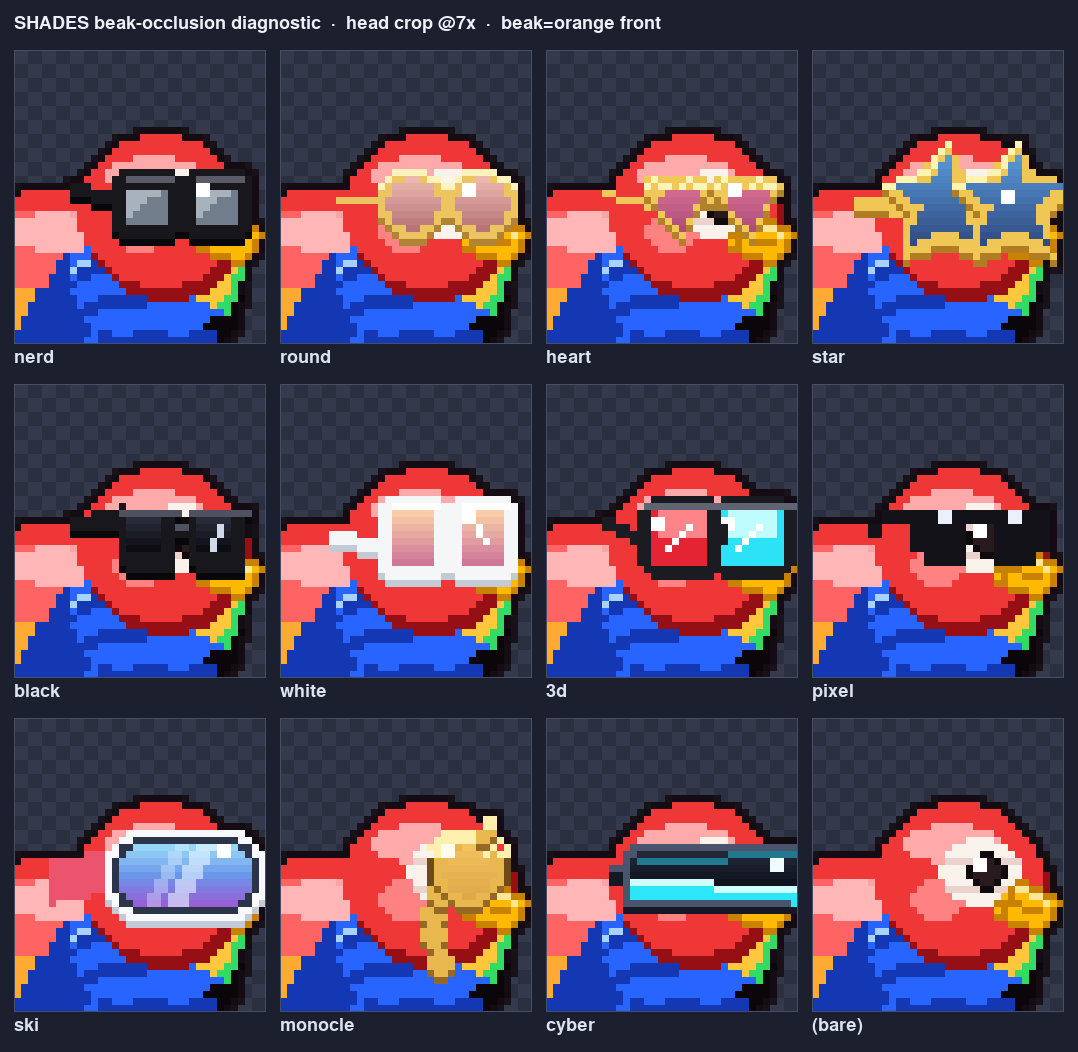
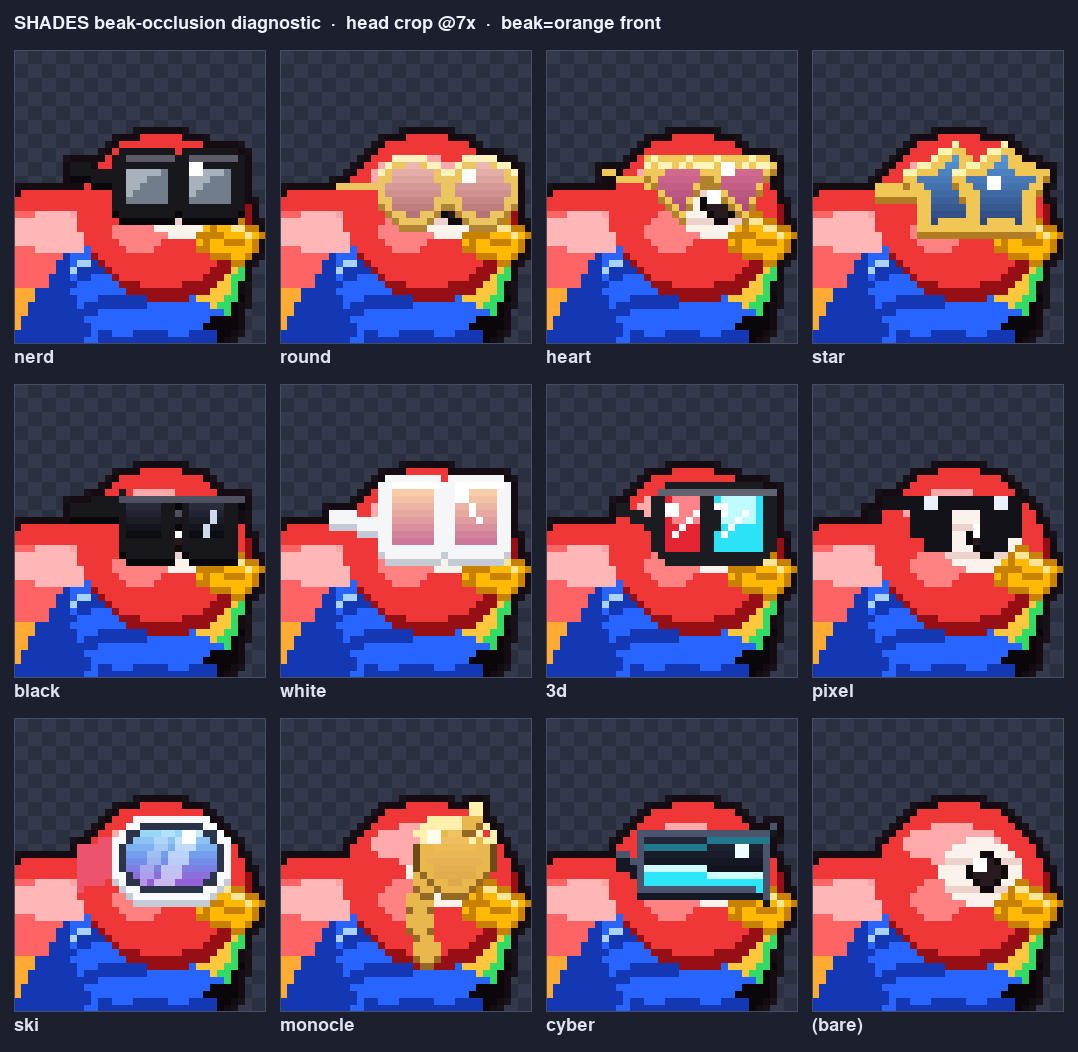
shades: seat all 11 eyewear styles on Pip's eye, clear the beak
Pip's eye sits high and his orange beak protrudes forward-and-below it, so
shades anchored at the eye centre with downward-hanging lens mass drooped
over the beak. Lift each style up onto the high eye and pull the near
(+facing) lens back off the beak; narrow ski/cyber/3d/pixel where position
alone could not clear the wide span. Identity, palette and silhouette of
every style are unchanged.

Claude-Session: https://claude.ai/code/session_01GzRCMDyuYDj6mxsvLLbTPo

diff --git a/tools/_shades_round1_compare.py b/tools/_shades_round1_compare.py
@@ -1,0 +1,162 @@
+"""Scratch BEFORE/AFTER review sheet for the SHADES on-Pip seating fix.
+
+For each of the 11 eyewear styles it shows, at a beak-judging zoom:
+  * OLD  — the pre-fix on-Pip head crop (loaded from the committed baseline
+           modules so the comparison is honest), and
+  * NEW  — the current on-Pip head crop, plus
+  * ICON — the current product-shot, which must still read as clean glasses.
+A (bare) reference cell shows the target seating (high eye, clear orange beak).
+
+The OLD drawers are loaded from a sibling baseline package path passed via
+SK_OLD_SHADES so this harness stays a pure renderer with no vendored copies.
+Headless. Writes docs/shades/round_1.png.
+"""
+import importlib
+import os
+import sys
+
+os.environ.setdefault("SDL_VIDEODRIVER", "dummy")
+import pygame  # noqa: E402
+
+pygame.init()
+pygame.display.set_mode((1, 1))
+
+_ROOT = os.path.dirname(os.path.dirname(os.path.abspath(__file__)))
+if _ROOT not in sys.path:
+    sys.path.insert(0, _ROOT)
+
+from game import parrot, store_skins  # noqa: E402
+from game import (  # noqa: E402
+    shades_nerd, shades_round, shades_heart, shades_star, shades_black,
+    shades_white, shades_3d, shades_pixel, shades_ski, shades_monocle,
+    shades_cyber,
+)
+
+NEW = [
+    ("nerd", shades_nerd), ("round", shades_round), ("heart", shades_heart),
+    ("star", shades_star), ("black", shades_black), ("white", shades_white),
+    ("3d", shades_3d), ("pixel", shades_pixel), ("ski", shades_ski),
+    ("monocle", shades_monocle), ("cyber", shades_cyber),
+]
+
+# Pre-fix baseline modules live beside this harness in a path given by the env
+# var; the committed copies under the scratchpad are loaded only for the diff.
+_OLD_DIR = os.environ["SK_OLD_SHADES"]
+_old_parent = os.path.dirname(_OLD_DIR)
+if _old_parent not in sys.path:
+    sys.path.insert(0, _old_parent)
+_old_pkg = os.path.basename(_OLD_DIR)
+
+
+def _old_fn(name):
+    mod = importlib.import_module(f"{_old_pkg}.shades_{name}")
+    return mod.draw_shades
+
+
+def head_crop(fn, zoom=7):
+    comp = pygame.Surface((store_skins.COMPOSITE_W, store_skins.COMPOSITE_H),
+                          pygame.SRCALPHA)
+    comp.blit(parrot._build_frame_bare(-8), (0, store_skins.PARROT_DY))
+    if fn:
+        fn(comp, 50, 40, 22, 1)
+    pip = parrot._add_outline(comp)
+    crop = pip.subsurface(pygame.Rect(28, 20, 36, 42)).copy()
+    return pygame.transform.scale(crop, (36 * zoom, 42 * zoom))
+
+
+def product_shot(fn, canvas=150):
+    surf = pygame.Surface((canvas, canvas), pygame.SRCALPHA)
+    fn(surf, canvas // 2, canvas // 2, 92, 1)
+    return parrot._add_outline(surf)
+
+
+def _checker(surf, rect, a=(54, 60, 78), b=(44, 50, 66), s=12):
+    for y in range(rect.top, rect.bottom, s):
+        for x in range(rect.left, rect.right, s):
+            c = a if ((x // s + y // s) % 2 == 0) else b
+            surf.fill(c, (x, y, min(s, rect.right - x), min(s, rect.bottom - y)))
+
+
+def main():
+    pygame.font.init()
+    title_f = pygame.font.SysFont("Arial", 20, bold=True)
+    lab_f = pygame.font.SysFont("Arial", 15, bold=True)
+    sub_f = pygame.font.SysFont("Arial", 12)
+
+    ZOOM = 6
+    cw, ch = 36 * ZOOM, 42 * ZOOM           # head-crop tile size
+    prod_w = 150
+    CELL_W = cw * 2 + prod_w + 48            # OLD | NEW | ICON
+    CELL_H = max(ch, prod_w) + 36
+    COLS = 2
+    items = NEW + [("(bare)", None)]
+    rows = (len(items) + COLS - 1) // COLS
+    MARGIN = 24
+    TITLE_H = 60
+    W = MARGIN * 2 + COLS * CELL_W + (COLS - 1) * MARGIN
+    H = TITLE_H + MARGIN + rows * (CELL_H + MARGIN)
+
+    sheet = pygame.Surface((W, H))
+    sheet.fill((28, 32, 46))
+    sheet.blit(title_f.render(
+        "SKYBIT — SHADES on-Pip seating fix  ·  round 1  ·  OLD vs NEW head crop @6x + product ICON",
+        True, (235, 240, 250)), (MARGIN, 18))
+
+    for i, (name, mod) in enumerate(items):
+        col, row = i % COLS, i // COLS
+        x = MARGIN + col * (CELL_W + MARGIN)
+        y = TITLE_H + MARGIN + row * (CELL_H + MARGIN)
+        cell = pygame.Rect(x, y, CELL_W, CELL_H)
+        pygame.draw.rect(sheet, (40, 45, 62), cell, border_radius=10)
+        pygame.draw.rect(sheet, (70, 78, 100), cell, 1, border_radius=10)
+
+        if mod is None:
+            # Bare reference: the target seating — eye high, beak clear.
+            bare = head_crop(None, ZOOM)
+            r = pygame.Rect(cell.left + 16, cell.top + 24, cw, ch)
+            _checker(sheet, r)
+            sheet.blit(bare, r.topleft)
+            sheet.blit(lab_f.render("(bare) — target seating", True, (230, 236, 248)),
+                       (cell.left + 16, cell.top + 4))
+            sheet.blit(sub_f.render("eye sits high; orange beak clear at front-right",
+                                    True, (180, 188, 206)),
+                       (cell.left + 16, cell.top + ch + 28))
+            continue
+
+        old = head_crop(_old_fn(name), ZOOM)
+        new = head_crop(mod.draw_shades, ZOOM)
+        icon = product_shot(mod.draw_shades)
+
+        sheet.blit(lab_f.render(name, True, (235, 240, 250)),
+                   (cell.left + 16, cell.top + 4))
+
+        ox = cell.left + 16
+        ny = cell.top + 24
+        r_old = pygame.Rect(ox, ny, cw, ch)
+        _checker(sheet, r_old)
+        sheet.blit(old, r_old.topleft)
+        sheet.blit(sub_f.render("OLD", True, (255, 150, 150)),
+                   (ox, ny + ch + 2))
+
+        nx = ox + cw + 12
+        r_new = pygame.Rect(nx, ny, cw, ch)
+        _checker(sheet, r_new)
+        sheet.blit(new, r_new.topleft)
+        sheet.blit(sub_f.render("NEW", True, (150, 235, 160)),
+                   (nx, ny + ch + 2))
+
+        ix = nx + cw + 12
+        r_icon = pygame.Rect(ix, ny, prod_w, prod_w)
+        _checker(sheet, r_icon, a=(48, 54, 72), b=(40, 46, 62))
+        ir = icon.get_rect(center=r_icon.center)
+        sheet.blit(icon, ir.topleft)
+        sheet.blit(sub_f.render("ICON (product shot)", True, (200, 208, 226)),
+                   (ix, ny + prod_w + 2))
+
+    out = os.path.join(_ROOT, "docs", "shades", "round_1.png")
+    pygame.image.save(sheet, out)
+    print("wrote", out, sheet.get_size())
+
+
+if __name__ == "__main__":
+    main()

diff --git a/game/shades_star.py b/game/shades_star.py
@@ -62,15 +62,20 @@ def _tinted_star(r_out, r_in, top, bot, alpha):
 
 def draw_shades(surf, cx, cy, eye_w, facing=1):
     f = facing
-    r_out = max(6, int(eye_w * 0.32))
+    # Shrunk from 0.32 so the two stars sit ON the eye area instead of sprawling
+    # over the beak; still fat-pointed enough to read as a star at 22px.
+    r_out = max(5, int(eye_w * 0.26))
     # Fat stubby points: inner radius ~0.53*outer keeps the 5 points countable
     # at 22px where a slender star would fill to a blob.
     r_in  = max(3, int(r_out * 0.53))
-    sep   = max(6, int(eye_w * 0.50))
+    sep   = max(6, int(eye_w * 0.44))
     # Frame thickness as an outset of the backing star; min 2px so the gold rim
     # never thins to nothing, scaling up to a chunky rim on the product shot.
     fw    = max(2, int(eye_w * 0.07))
-    near  = (cx + f * (sep // 2), cy)
+    # Seat the pair UP onto the high eye and pull the near star back so its lower
+    # point clears the forward beak.
+    cy    = cy - max(2, int(eye_w * 0.12))
+    near  = (cx + f * (sep // 2) - f * max(1, int(eye_w * 0.04)), cy)
     far   = (cx - f * (sep // 2), cy)
 
     # Bridge BEHIND the lenses so the lens stars overlap it; the lower pass is

diff --git a/game/shades_3d.py b/game/shades_3d.py
@@ -30,14 +30,20 @@ _FRAME_HI = (96, 100, 112)   # top-edge catch-light so the plastic reads round
 
 def draw_shades(surf, cx, cy, eye_w, facing=1):
     f = facing
-    lw = max(5, int(eye_w * 0.44))
-    lh = max(5, int(eye_w * 0.40))
-    sep = max(6, int(eye_w * 0.50))
+    # Narrowed from 0.44/0.50: the wide anaglyph pair pushed the cyan (near) lens
+    # right over the beak. A tighter lens + tighter spacing keeps the two-colour
+    # read while the front lens stays off the beak.
+    lw = max(5, int(eye_w * 0.36))
+    lh = max(5, int(eye_w * 0.38))
+    sep = max(6, int(eye_w * 0.42))
     rad = max(1, int(eye_w * 0.09))
     # Frame ring thickness — kept >=2 so the divider survives at eye_w=22.
     fr = max(2, int(eye_w * 0.085))
 
-    near = (cx + f * (sep // 2), cy)      # BEAK side -> cyan
+    # Seat the pair UP onto the high eye and pull the near (cyan) lens back so its
+    # forward rim clears the beak.
+    cy = cy - max(2, int(eye_w * 0.12))
+    near = (cx + f * (sep // 2) - f * max(1, int(eye_w * 0.05)), cy)  # BEAK side -> cyan
     far = (cx - f * (sep // 2), cy)       # EAR side  -> red
 
     for (lx, ly), lens_c, lens_h in (

diff --git a/game/shades_cyber.py b/game/shades_cyber.py
@@ -30,10 +30,16 @@ _GLINT  = (236, 252, 255)
 
 def draw_shades(surf, cx, cy, eye_w, facing=1):
     f = facing
-    half_w = max(4, int(eye_w * 0.50))      # ~1.0*eye_w total span
+    # Narrowed from 0.50 and the whole band shifted BACK toward the ear: the wide
+    # raked visor reached its leading edge well past the beak. A tighter span +
+    # smaller rake keeps the wraparound read while the lead edge clears the beak.
+    half_w = max(4, int(eye_w * 0.40))      # ~0.8*eye_w total span
     half_h = max(3, int(eye_w * 0.19))      # ~0.38*eye_w tall -> >=5px @22
-    rake = max(2, int(eye_w * 0.15))        # forward lean of the near edge
+    rake = max(1, int(eye_w * 0.09))        # forward lean of the near edge
     rim = max(1, int(eye_w * 0.045))
+    # Seat UP onto the high eye and shift back so the leading edge stays off beak.
+    cy = cy - max(2, int(eye_w * 0.10))
+    cx = cx - f * max(1, int(eye_w * 0.10))
 
     # Edge-light thickness must not eat the dark mass at tiny sizes: keep
     # the body clearly taller than the cyan lip so the sandwich survives.

diff --git a/game/shades_pixel.py b/game/shades_pixel.py
@@ -112,14 +112,16 @@ def draw_shades(surf, cx, cy, eye_w, facing=1):
     c = _cell(eye_w)
     cx, cy = _snap(cx, c), _snap(cy, c)
 
-    lens_w = c * 4                              # beefier lens
+    lens_w = c * 3                              # trimmed so the front block clears the beak
     top_h  = c * 3                              # tall block mass
     bot_h  = c                                  # stepped lower row
     bridge = c * 2
-    # Lift the whole unit half a cell so it sits over the eye, not under it.
-    top_y  = cy - top_h + c
-    near_in = cx + f * (bridge // 2)
-    far_in  = cx - f * (bridge // 2)
+    # Seat the whole unit UP onto the high eye (a full block of lift) and pull it
+    # back off the beak by tucking the near block one cell toward the bridge, so
+    # the forward edge stops short of the beak that sits below-and-ahead.
+    top_y  = cy - top_h
+    near_in = cx + f * (bridge // 2) - f * c
+    far_in  = cx - f * (bridge // 2) - f * c
 
     def lens(inner_x, sign):
         x0 = inner_x if sign > 0 else inner_x - lens_w

diff --git a/game/shades_ski.py b/game/shades_ski.py
@@ -78,10 +78,16 @@ def _lens(w, h, rad, facing):
 
 def draw_shades(surf, cx, cy, eye_w, facing=1):
     f = facing
-    lw   = max(8, int(eye_w * 0.96))           # one wide lens across both eyes
-    lh   = max(5, int(eye_w * 0.50))
+    # Narrowed from 0.96: the full-face goggle swallowed the beak. A tighter span
+    # still reads as one wide single-lens snow goggle but stays off the beak.
+    lw   = max(8, int(eye_w * 0.70))           # one wide lens across both eyes
+    lh   = max(5, int(eye_w * 0.46))
     plas = max(1, int(eye_w * 0.08))           # white-plastic frame ring
     rad  = max(2, int(lh * 0.42))              # rounded goggle corners
+    # Seat the goggle UP onto the high eye and shift it BACK toward the ear so its
+    # leading edge clears the forward beak instead of centring on the face.
+    cy   = cy - max(2, int(eye_w * 0.12))
+    cx   = cx - f * max(1, int(eye_w * 0.10))
     x0   = cx - lw // 2
     y0   = cy - lh // 2
 

diff --git a/game/shades_heart.py b/game/shades_heart.py
@@ -83,7 +83,13 @@ def draw_shades(surf, cx, cy, eye_w, facing=1):
     # Rim is a FAT band, not a stroke: a big fraction of the lens with a hard
     # floor so the gold heart silhouette survives downscaling to ~22px on red.
     rim  = max(2, int(r * 0.42))
-    near = (cx + f * (sep // 2), cy)
+    # The heart silhouette hangs its point well BELOW centre (cy + ~0.94r), so a
+    # centroid-on-eye placement drapes the tip over the forward beak. Lift the
+    # whole pair UP by most of that downward reach so the lobes sit on the eye
+    # and the points stop short of the beak, and pull the near lens back off the
+    # +facing beak edge.
+    cy   = cy - max(3, int(r * 0.62))
+    near = (cx + f * (sep // 2) - f * max(1, int(eye_w * 0.05)), cy)
     far  = (cx - f * (sep // 2), cy)
 
     # Bridge BEHIND the lenses so the heart lobes overlap it cleanly; the

diff --git a/game/shades_nerd.py b/game/shades_nerd.py
@@ -68,7 +68,12 @@ def draw_shades(surf, cx, cy, eye_w, facing=1):
     brow = rim + max(1, int(eye_w * 0.035))
     hh   = int(hw * 1.05)                       # lens half-height (square-ish)
     rad  = max(2, int(hw * 0.42))               # softly rounded corners
-    near = (cx + f * (sep // 2), cy)            # front lens (toward beak)
+    # Seat the frame UP onto the high eye so the lens mass clears the beak that
+    # protrudes forward-and-below the eye; the near lens also rides slightly less
+    # far forward than the eye anchor so its lower rim never laps the beak.
+    lift = max(2, int(eye_w * 0.16))
+    cy   = cy - lift
+    near = (cx + f * (sep // 2) - f * max(1, int(eye_w * 0.04)), cy)
     far  = (cx - f * (sep // 2), cy)            # back lens (toward ear)
 
     def lens_rect(c):

diff --git a/game/shades_monocle.py b/game/shades_monocle.py
@@ -50,9 +50,11 @@ def draw_shades(surf, cx, cy, eye_w, facing=1):
     r   = max(3, int(eye_w * 0.30))
     # Heavier rim than before so the gold band survives + reads as a frame.
     rim = max(2, int(eye_w * 0.10))
-    # Sit the lens over the near eye, nudged to the +facing side of (cx,cy).
-    lx = cx + f * int(eye_w * 0.18)
-    ly = cy
+    # Sit the lens over the near eye. The forward nudge is trimmed (was 0.18) and
+    # the lens lifted UP onto the high eye so the disc + its lower chain anchor
+    # stay off the beak that protrudes forward-and-below.
+    lx = cx + f * int(eye_w * 0.06)
+    ly = cy - max(2, int(eye_w * 0.12))
 
     tiny = eye_w < 30   # at tiny scale, collapse the chain to a solid hook
 

diff --git a/game/shades_white.py b/game/shades_white.py
@@ -54,7 +54,10 @@ def draw_shades(surf, cx, cy, eye_w, facing=1):
     sep  = max(6, int(eye_w * 0.46))          # centre-to-centre lens spacing
     rim  = max(2, int(eye_w * 0.09))          # chunky white rim
     rad  = max(2, int(eye_w * 0.12))          # squarish-rounded 80s corner
-    near = (cx + f * (sep // 2), cy)
+    # Tall chunky lens (hh ~0.30 eye_w) drapes below the eye; seat it UP onto the
+    # eye and pull the near lens back so the bottom-front rim clears the beak.
+    cy   = cy - max(2, int(eye_w * 0.15))
+    near = (cx + f * (sep // 2) - f * max(1, int(eye_w * 0.05)), cy)
     far  = (cx - f * (sep // 2), cy)
 
     def frame_rect(c):

diff --git a/game/shades_black.py b/game/shades_black.py
@@ -66,7 +66,10 @@ def draw_shades(surf, cx, cy, eye_w, facing=1):
     r    = max(3, int(eye_w * 0.26))
     sep  = max(4, int(eye_w * 0.46))
     rim  = max(2, int(eye_w * 0.085))   # chunky acetate is thicker than wire
-    near = (cx + f * (sep // 2), cy)
+    # Wayfarer lens drops below centre (dn ~0.92r); seat it UP onto the eye and
+    # pull the near lens back so the lower-inner corner stays off the beak.
+    cy   = cy - max(2, int(eye_w * 0.13))
+    near = (cx + f * (sep // 2) - f * max(1, int(eye_w * 0.04)), cy)
     far  = (cx - f * (sep // 2), cy)
 
     # Chunky bridge BEHIND the lenses so the frame trapezoids overlap it clean;

diff --git a/game/shades_round.py b/game/shades_round.py
@@ -42,6 +42,9 @@ def draw_shades(surf, cx, cy, eye_w, facing=1):
     r    = max(3, int(eye_w * 0.26))
     sep  = max(4, int(eye_w * 0.46))
     rim  = max(1, int(eye_w * 0.065))
+    # Small lift onto the high eye so the rose discs centre on the eye rather
+    # than hanging toward the beak; round already clears, this only tidies it.
+    cy   = cy - max(1, int(eye_w * 0.10))
     near = (cx + f * (sep // 2), cy)
     far  = (cx - f * (sep // 2), cy)
 
